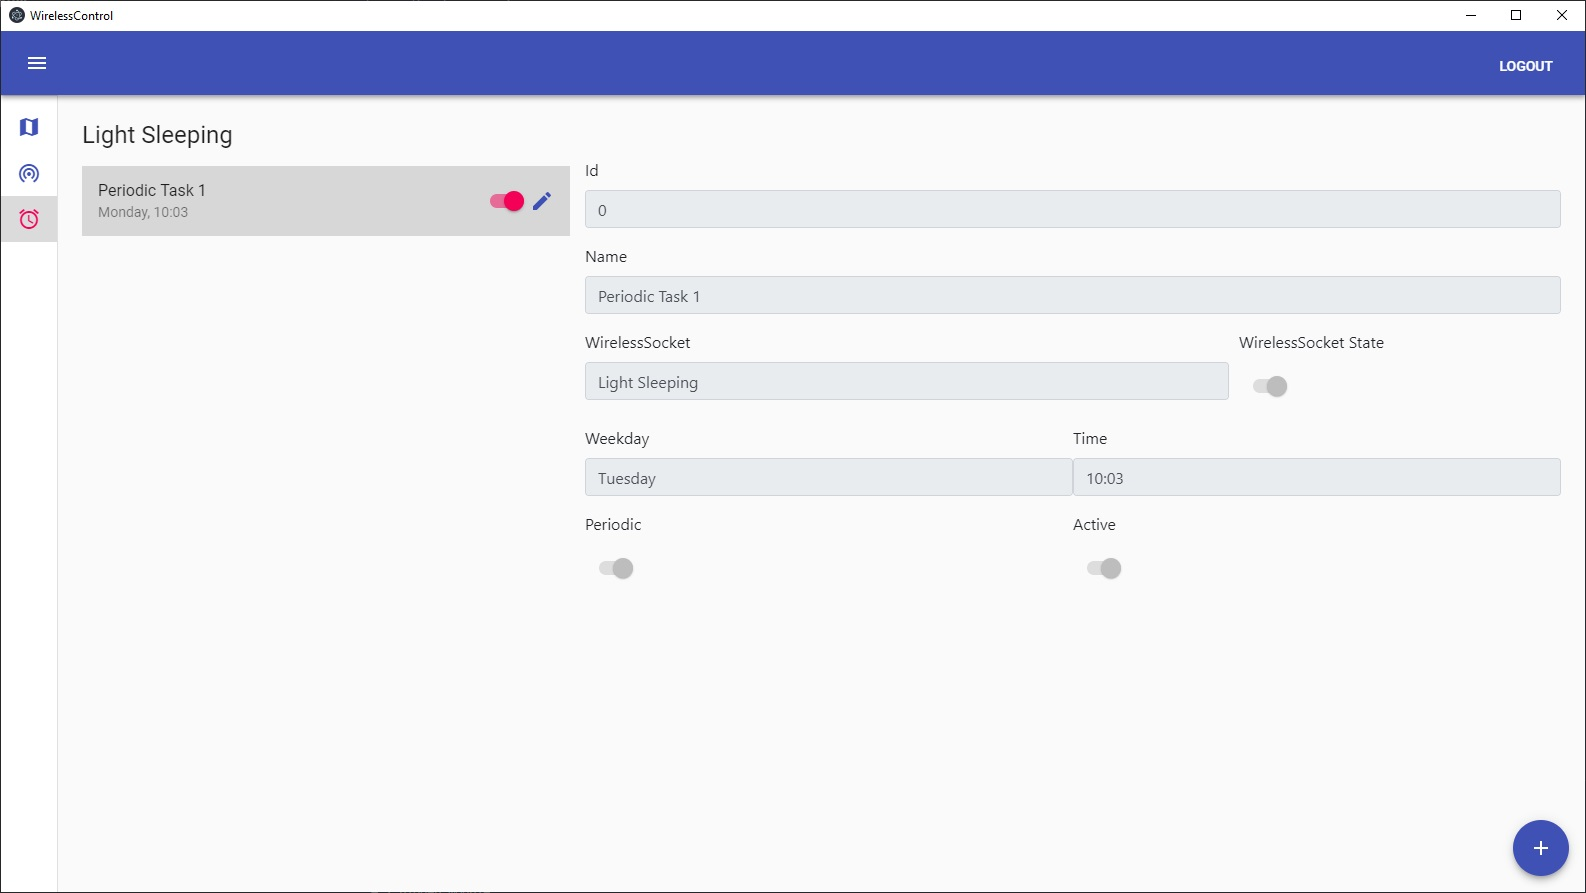
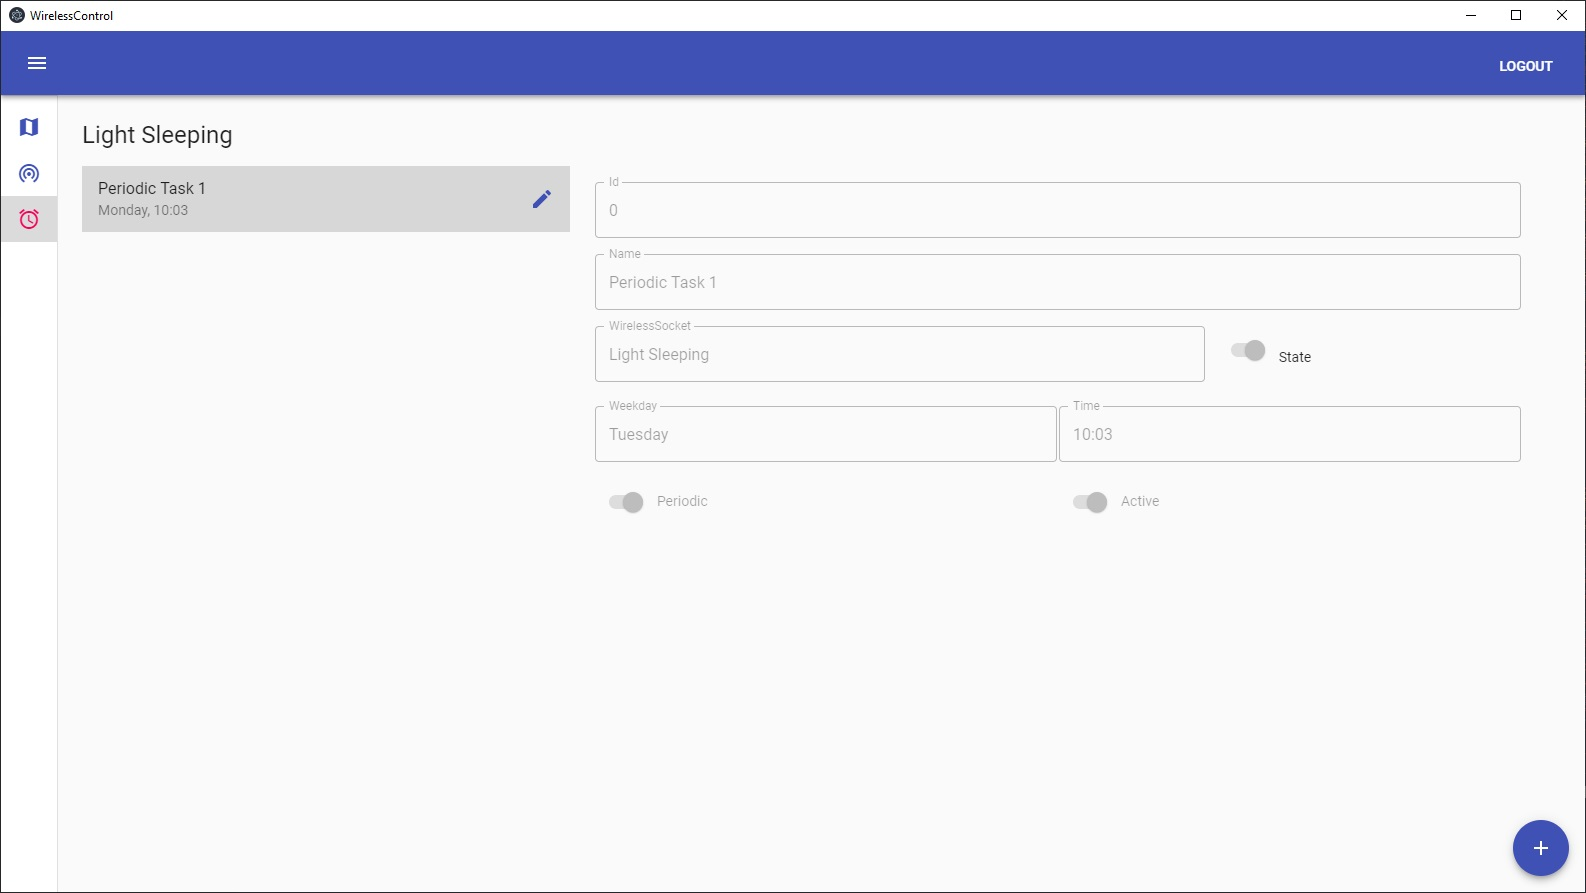
fixes layout for periodic tasks, updates screenshots, removes toggle switch from list, adds some labels

diff --git a/src/components/PeriodicTasks/PeriodicTasks.tsx b/src/components/PeriodicTasks/PeriodicTasks.tsx
@@ -49,7 +49,6 @@ class PeriodicTasks extends React.Component<IPeriodicTasksProps, any> {
                 {this.periodicTasks.map((periodicTask: PeriodicTask, _) => (
                     <ListItem button key={periodicTask.id} onClick={() => this.handleSelect(periodicTask)} selected={this.isSelected(periodicTask)}>
                         <ListItemText primary={periodicTask.name} secondary={getDateTimeString(periodicTask)} />
-                        <Switch onChange={() => this.handleToggle(periodicTask)} checked={periodicTask.active === 1} />
                         <ListItemSecondaryAction>
                             <IconButton aria-label="Edit" onClick={() => this.handleEdit(periodicTask)}>
                                 <EditIcon color={(this.state.periodicTaskInEdit !== null && periodicTask.id === this.state.periodicTaskInEdit.id) ? "secondary" : "primary"} />
@@ -78,13 +77,15 @@ class PeriodicTasks extends React.Component<IPeriodicTasksProps, any> {
 
             if (this.state.periodicTaskInEdit !== null && this.periodicTaskSelected.id === this.state.periodicTaskInEdit.id) {
                 if (!this.validateName()) {
-                    nameInput = <TextField error fullWidth label="Name" type="text" name="name" id="name" placeholder="Enter a name" onChange={this.handleChange} value={this.state.periodicTaskInEdit.name} variant="outlined" />;
+                    nameInput = <TextField
+                        error fullWidth label="Name" type="text" name="name" id="name" placeholder="Enter a name" onChange={this.handleChange} value={this.state.periodicTaskInEdit.name} variant="outlined" />;
                 } else {
-                    nameInput = <TextField fullWidth label="Name" type="text" name="name" id="name" placeholder="Enter a name" onChange={this.handleChange} value={this.state.periodicTaskInEdit.name} variant="outlined" />;
+                    nameInput = <TextField
+                        fullWidth label="Name" type="text" name="name" id="name" placeholder="Enter a name" onChange={this.handleChange} value={this.state.periodicTaskInEdit.name} variant="outlined" />;
                 }
 
                 if (!this.validateWirelessSocket()) {
-                    wirelessSocketSelect = <Select 
+                    wirelessSocketSelect = <Select
                         error
                         fullWidth
                         value={this.state.periodicTaskInEdit.wirelessSocketId}
@@ -235,33 +236,33 @@ class PeriodicTasks extends React.Component<IPeriodicTasksProps, any> {
                         <div className={this.props.classes.root}>
                             <FormControl fullWidth onSubmit={this.handleSubmit} className={this.props.classes.formControl}>
                                 <FormGroup>
-                                    <FormControlLabel label="" control={idInput} />
+                                    <FormControlLabel label="" control={<div className="wc-full-width wc-margin-bottom-1-rem">{idInput}</div>} />
                                 </FormGroup>
                                 <FormGroup>
-                                    <FormControlLabel label="" control={nameInput} />
+                                    <FormControlLabel label="" control={<div className="wc-full-width wc-margin-bottom-1-rem">{nameInput}</div>} />
                                 </FormGroup>
                                 <div className="wc-full-width">
                                     <FormGroup className="wireless-socket-name-container">
-                                        <FormControlLabel label="" control={wirelessSocketSelect} />
+                                        <FormControlLabel label="" control={<div className="wc-full-width wc-margin-bottom-1-rem">{wirelessSocketSelect}</div>} />
                                     </FormGroup>
                                     <FormGroup className="wireless-socket-state-container">
-                                        <FormControlLabel label="" control={wirelessSocketStateSwitch} />
+                                        <FormControlLabel label="State" control={<div className="wc-margin-bottom-1-rem">{wirelessSocketStateSwitch}</div>} />
                                     </FormGroup>
                                 </div>
                                 <div className="wc-full-width">
                                     <FormGroup className="periodic-task-weekday-container">
-                                        <FormControlLabel label="" control={weekdaySelect} />
+                                        <FormControlLabel label="" control={<div className="wc-full-width wc-margin-bottom-1-rem">{weekdaySelect}</div>} />
                                     </FormGroup>
                                     <FormGroup className="periodic-task-time-container">
-                                        <FormControlLabel label="" control={timePicker} />
+                                        <FormControlLabel label="" control={<div className="wc-full-width wc-margin-bottom-1-rem">{timePicker}</div>} />
                                     </FormGroup>
                                 </div>
                                 <div className="wc-full-width">
                                     <FormGroup className="periodic-task-periodic-container">
-                                        <FormControlLabel label="" control={periodicSwitch} />
+                                        <FormControlLabel label="Periodic" control={periodicSwitch} />
                                     </FormGroup>
                                     <FormGroup className="periodic-task-active-container">
-                                        <FormControlLabel label="" control={activeSwitch} />
+                                        <FormControlLabel label="Active" control={activeSwitch} />
                                     </FormGroup>
                                 </div>
                                 <div className="wc-button-container">
@@ -299,11 +300,6 @@ class PeriodicTasks extends React.Component<IPeriodicTasksProps, any> {
 
     private handleSelect = (periodicTask: PeriodicTask): void => this.props.dispatch(periodicTaskSelectSuccessful(periodicTask));
     private isSelected = (periodicTask: PeriodicTask): boolean => this.periodicTaskSelected !== null && this.periodicTaskSelected.id === periodicTask.id;
-
-    private handleToggle = (periodicTask: PeriodicTask): void => {
-        periodicTask.active = periodicTask.active === 0 ? 1 : 0;
-        this.props.dispatch(periodicTaskUpdate(periodicTask));
-    }
 
     private handleAdd = (): void => {
         const now = new Date(Date.now());
